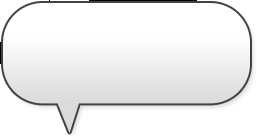
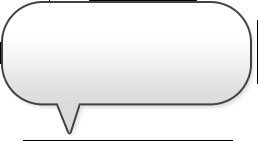
parse/calculate fill marks

diff --git a/ninepatch/__init__.py b/ninepatch/__init__.py
@@ -20,7 +20,21 @@ class Ninepatch(object):
 
     def __init__(self, filename):
         self.image = Image.open(filename)
-        self.tiles = self.slice()
+        self.marks = self.find_marks(self.image)
+        self.slice_data = self.slice()
+
+    @property
+    def fill_area(self):
+        return (
+            (
+                self.marks['fill']['x'][0],  # left
+                self.marks['fill']['y'][0]  # top
+            ),
+            (
+                self.image.size[0] - self.marks['fill']['x'][1],  # right
+                self.image.size[1] - self.marks['fill']['y'][1]  # bottom
+            ),
+        )
 
     @staticmethod
     def _chain(marks):
@@ -32,35 +46,61 @@ class Ninepatch(object):
         '''find the cut marks'''
         pixels = image.load()
 
-        marks = {'x': [], 'y': []}
+        scale_marks = {'x': [], 'y': []}
+        fill_marks = {'x': [], 'y': []}
+        axes = {'x': 0, 'y': 1}
 
         marker_color = (0, 0, 0, 255)
 
-        for axis_i, axis in enumerate(('x', 'y')):
-            start_mark = end_mark = None
+        for axis in axes.keys():
+            start_scale_mark = end_scale_mark = None
+            start_fill_mark = end_fill_mark = None
 
-            coord = [0, 0]  # our handle to rotate the axes
+            scale_coord = [0, 0]  # our handle to rotate the axes
+            fill_coord = [0, 0]
+
+            # last pixel on that axis
+            fill_coord[axes[axis] - 1] = image.size[not axes[axis]] - 1
 
             # iterate over the first pixels on that axis
-            for i in range(image.size[axis_i]):
-                coord[axis_i] = i  # select axis to search
-                pixel = pixels[tuple(coord)]
+            for i in range(image.size[axes[axis]]):
+                scale_coord[axes[axis]] = i  # select axis to search
+                fill_coord[axes[axis]] = i
 
-                if pixel == marker_color:
-                    if not start_mark:
-                        start_mark = i
-                    end_mark = i
+                scale_pixel = pixels[tuple(scale_coord)]
+                fill_pixel = pixels[tuple(fill_coord)]
+
+                # scale marks
+                if scale_pixel == marker_color:
+                    if not start_scale_mark:
+                        start_scale_mark = i
+                    end_scale_mark = i
 
                 else:
-                    if start_mark:
-                        marks[axis].append((start_mark, end_mark))
-                        start_mark = end_mark = None
+                    if start_scale_mark:
+                        scale_marks[axis].append(
+                            (start_scale_mark, end_scale_mark))
+                        start_scale_mark = end_scale_mark = None
 
-        return marks
+                # fill marks
+                if fill_pixel == marker_color:
+                    if not start_fill_mark:
+                        start_fill_mark = i
+                    end_fill_mark = i
+                else:
+                    if start_fill_mark:
+                        fill_marks[axis] = (start_fill_mark, end_fill_mark - 1)
+
+        return {
+            'scale': scale_marks,
+            'fill': fill_marks,
+        }
 
     def slice(self):
         '''slice a 9 patch image'''
-        marks = self.find_marks(self.image)
+        self.find_marks(self.image)['scale']
+
+        slice_data = {}
 
         slice_marks = {
             'x': [],
@@ -72,7 +112,7 @@ class Ninepatch(object):
         }
         for axis in ('x', 'y'):
             slice_marks[axis] = [1] + list(
-                self._chain(marks[axis])) + [image_size[axis]]
+                self._chain(self.marks['scale'][axis])) + [image_size[axis] - 1]
 
         counts = {
             'x': len(slice_marks['x']) - 1,
@@ -91,15 +131,17 @@ class Ninepatch(object):
                     slice_marks['y'][y + 1],
                 ))
 
-        self.tile_count = {
+        slice_data['tiles'] = tiles
+
+        slice_data['tile_count'] = {
             'x': len(tiles) - 1,
             'y': len(tiles[0]) - 1,
         }
-        self.scaleable_tile_count = {
-            'x': float(self.tile_count['x']) / 2,
-            'y': float(self.tile_count['y']) / 2,
+        slice_data['scaleable_tile_count'] = {
+            'x': float(slice_data['tile_count']['x']) / 2,
+            'y': float(slice_data['tile_count']['y']) / 2,
         }
-        self.fixed_tile_size = {
+        slice_data['fixed_tile_size'] = {
             'x': 0,
             'y': 0,
         }
@@ -108,17 +150,19 @@ class Ninepatch(object):
         for x, column in enumerate(tiles):
             for y, tile in enumerate(column):
                 if y == 0 and is_even(x):  # only on first row
-                    self.fixed_tile_size['x'] += tile.size[0]
+                    slice_data['fixed_tile_size']['x'] += tile.size[0]
                 if x == 0 and is_even(y):  # only on first column
-                    self.fixed_tile_size['y'] += tile.size[1]
+                    slice_data['fixed_tile_size']['y'] += tile.size[1]
 
         # add 1 pixel for every scalable region
-        self.min_scale_size = {
-            'x': self.fixed_tile_size['x'] + self.scaleable_tile_count['x'],
-            'y': self.fixed_tile_size['y'] + self.scaleable_tile_count['y'],
+        slice_data['min_scale_size'] = {
+            'x': slice_data['fixed_tile_size']['x']
+            + slice_data['scaleable_tile_count']['x'],
+            'y': slice_data['fixed_tile_size']['y']
+            + slice_data['scaleable_tile_count']['y'],
         }
 
-        return tiles
+        return slice_data
 
     @staticmethod
     def distributor(start):
@@ -136,28 +180,30 @@ class Ninepatch(object):
         # all the even tiles are the ones that can be scaled
 
         # raise error when undersized
-        if width < self.min_scale_size['x']:
+        if width < self.slice_data['min_scale_size']['x']:
             raise ScaleError('width cannot be smaller than %i' %
-                             self.min_scale_size['x'])
+                             self.slice_data['min_scale_size']['x'])
 
-        if height < self.min_scale_size['y']:
+        if height < self.slice_data['min_scale_size']['y']:
             raise ScaleError('height cannot be smaller than %i' %
-                             self.min_scale_size['y'])
+                             self.slice_data['min_scale_size']['y'])
 
         total_scale = {
-            'x': width - self.fixed_tile_size['x'],
-            'y': height - self.fixed_tile_size['y'],
+            'x': width - self.slice_data['fixed_tile_size']['x'],
+            'y': height - self.slice_data['fixed_tile_size']['y'],
         }
         tile_scale = {
-            'x': int(total_scale['x'] / self.scaleable_tile_count['x']),
-            'y': int(total_scale['y'] / self.scaleable_tile_count['y']),
+            'x': int(
+                total_scale['x'] / self.slice_data['scaleable_tile_count']['x']),
+            'y': int(
+                total_scale['y'] / self.slice_data['scaleable_tile_count']['y']),
         }
         # rounding differences
         extra = {
-            'x': total_scale['x'] - (tile_scale['x'] *
-                                     self.scaleable_tile_count['x']),
-            'y': total_scale['y'] - (tile_scale['y'] *
-                                     self.scaleable_tile_count['y']),
+            'x': total_scale['x'] - (
+                tile_scale['x'] * self.slice_data['scaleable_tile_count']['x']),
+            'y': total_scale['y'] - (
+                tile_scale['y'] * self.slice_data['scaleable_tile_count']['y']),
         }
 
         # distributes the pixels from the rounding differences until exhausted
@@ -166,7 +212,7 @@ class Ninepatch(object):
         x_coord = 0
         y_coord = 0
 
-        for x, column in enumerate(self.tiles):
+        for x, column in enumerate(self.slice_data['tiles']):
             extra_x = 0 if is_even(x) else next(extra_x_distributor)
             extra_y_distributor = Ninepatch.distributor(extra['y'])
 

diff --git a/ninepatch/test/tests.py b/ninepatch/test/tests.py
@@ -12,15 +12,17 @@ class TestNinepatch(unittest.TestCase):
         # compare with the test image
         test_image = pkg_resources.resource_stream('ninepatch', 'data/9patch_test.png')
         original_image = pkg_resources.resource_stream('ninepatch', 'data/test_original_421_333.png')
-        original_image_temp_path = os.path.join(tempfile.gettempdir(), 'original_image_temp.png')
 
         # copy package resourc into temp file
+        original_image_temp_path = os.path.join(tempfile.gettempdir(), 'original_image_temp.png')
         with open(original_image_temp_path, 'w') as original_image_temp:
             original_image_temp.write(original_image.read())
 
         scaled_image_path = tempfile.gettempdir() + os.sep + 'test_scaled_421_333.png'
         ninepatch_ = ninepatch.Ninepatch(test_image)
         ninepatch_.render(421, 333).save(scaled_image_path, format='PNG')
+
         self.assertTrue(filecmp.cmp(scaled_image_path, original_image_temp_path))
+
         os.remove(scaled_image_path)
         os.remove(original_image_temp_path)
